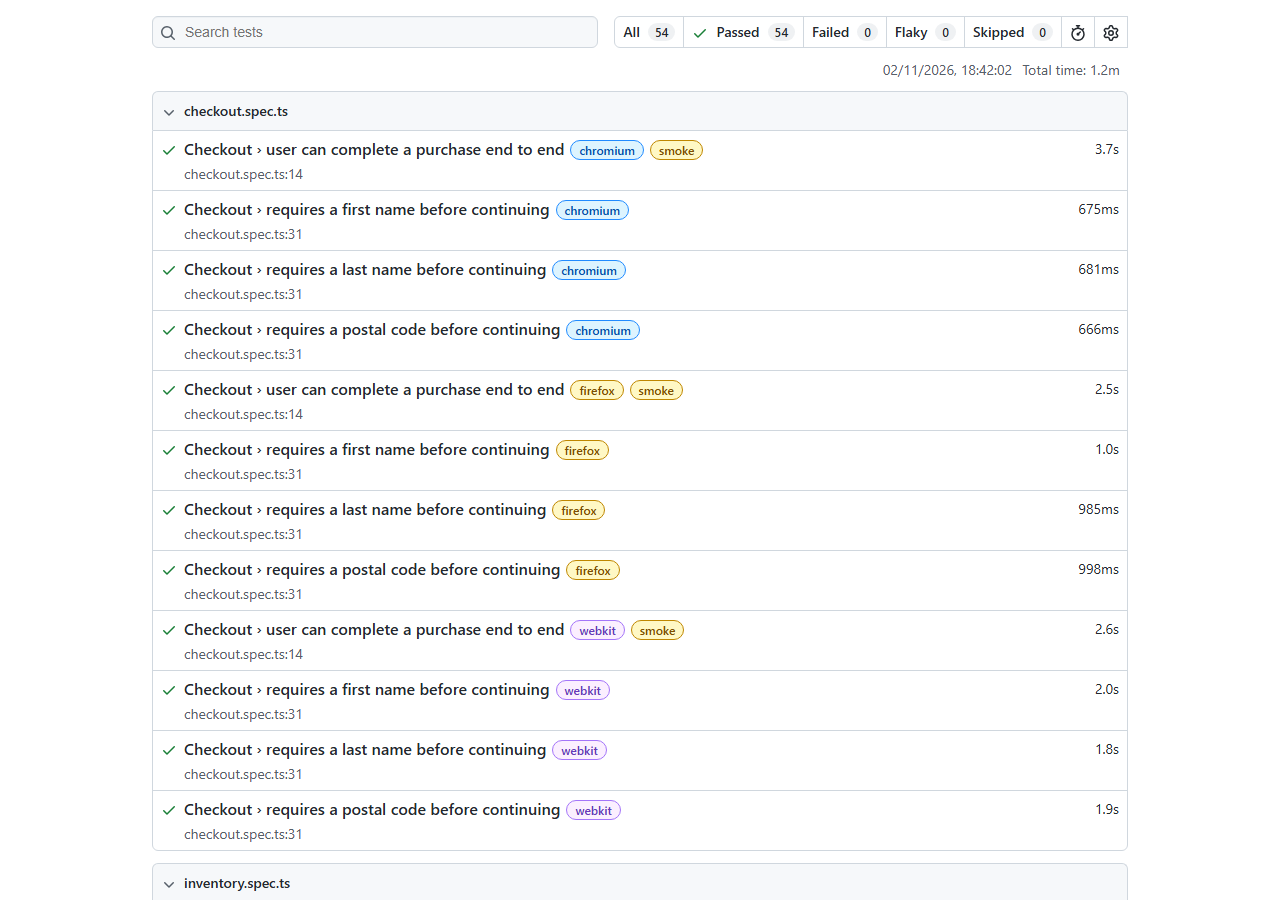
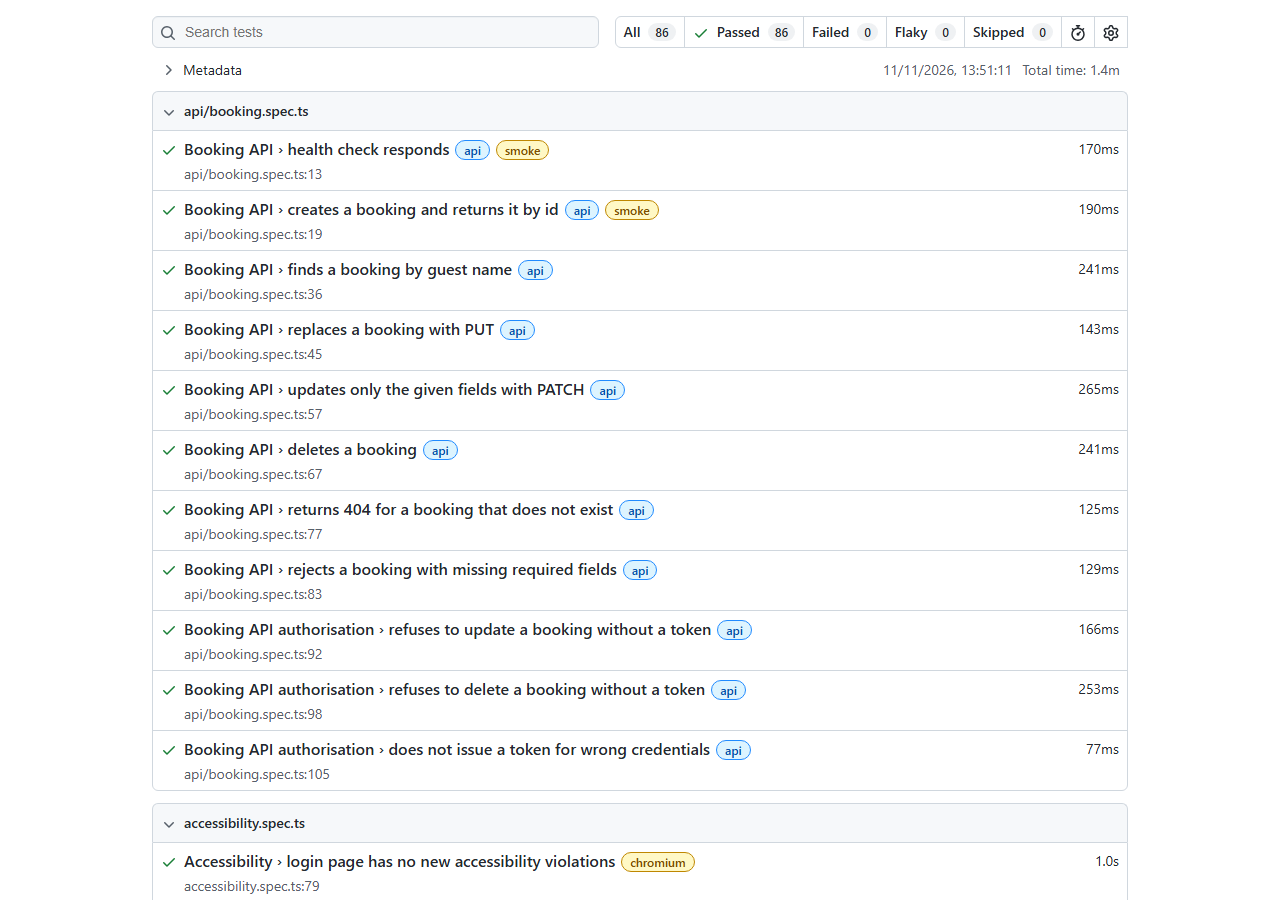
Update README report screenshot for the 86-test suite

diff --git a/README.md b/README.md
@@ -7,7 +7,7 @@ End-to-end and accessibility tests for the full [Sauce Demo](https://www.saucede
 
 **[View the latest test report →](https://ola20sarumi.github.io/saucedemo-playwright-e2e/)**
 
-![HTML report showing 54 passing tests across Chromium, Firefox and WebKit](docs/report-screenshot.png)
+![HTML report showing all 86 tests passing, including the API and accessibility tests](docs/report-screenshot.png)
 
 ## What's covered
 
